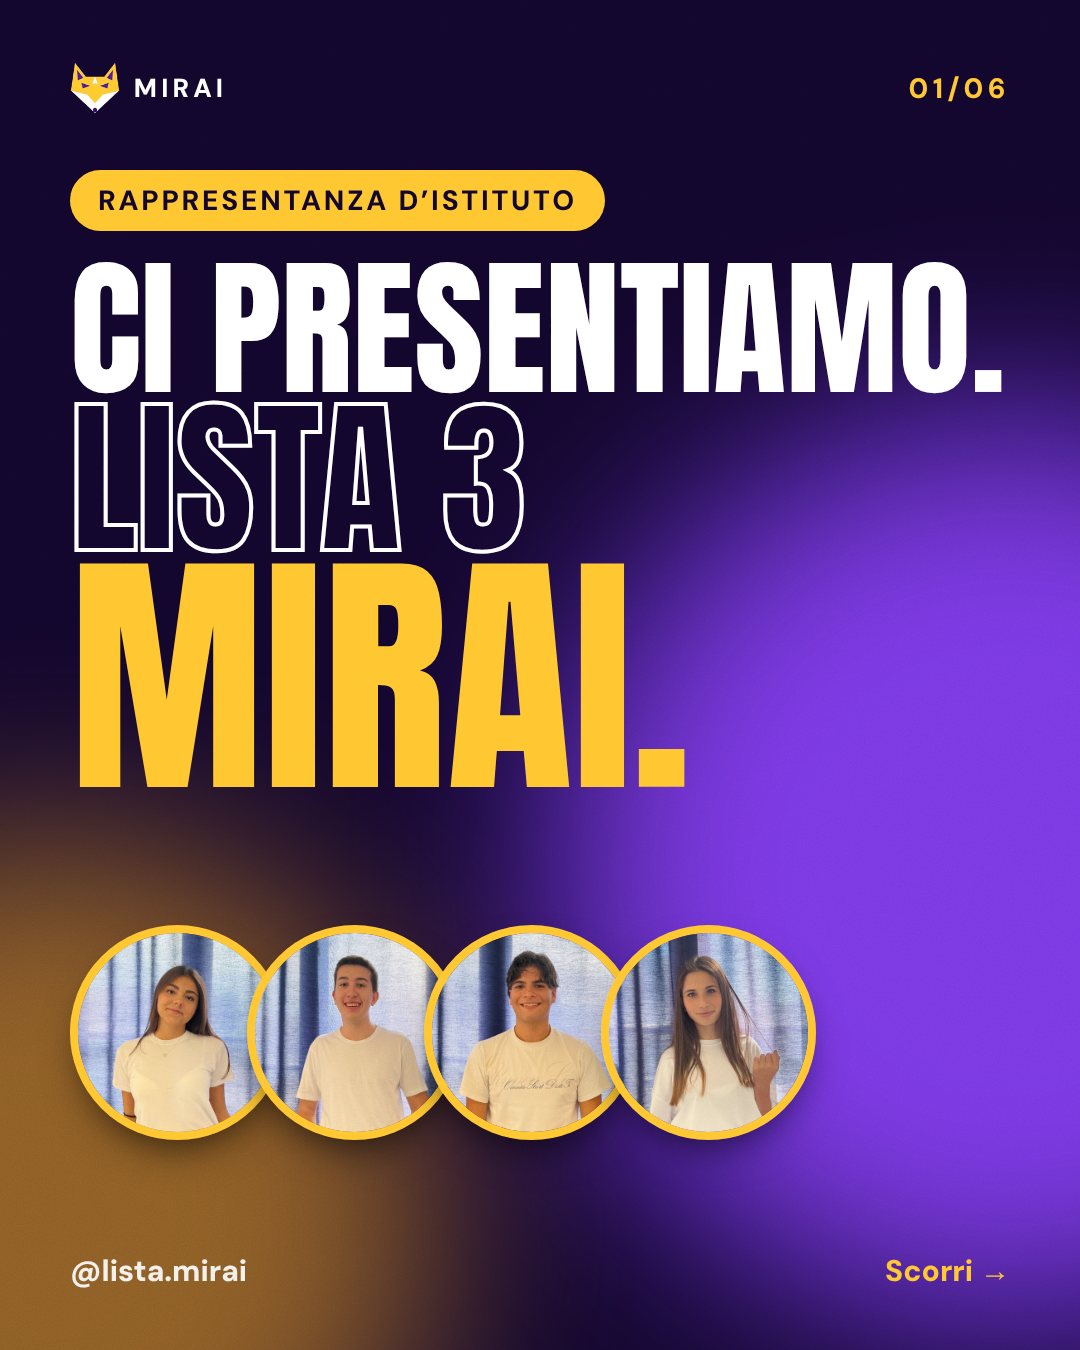
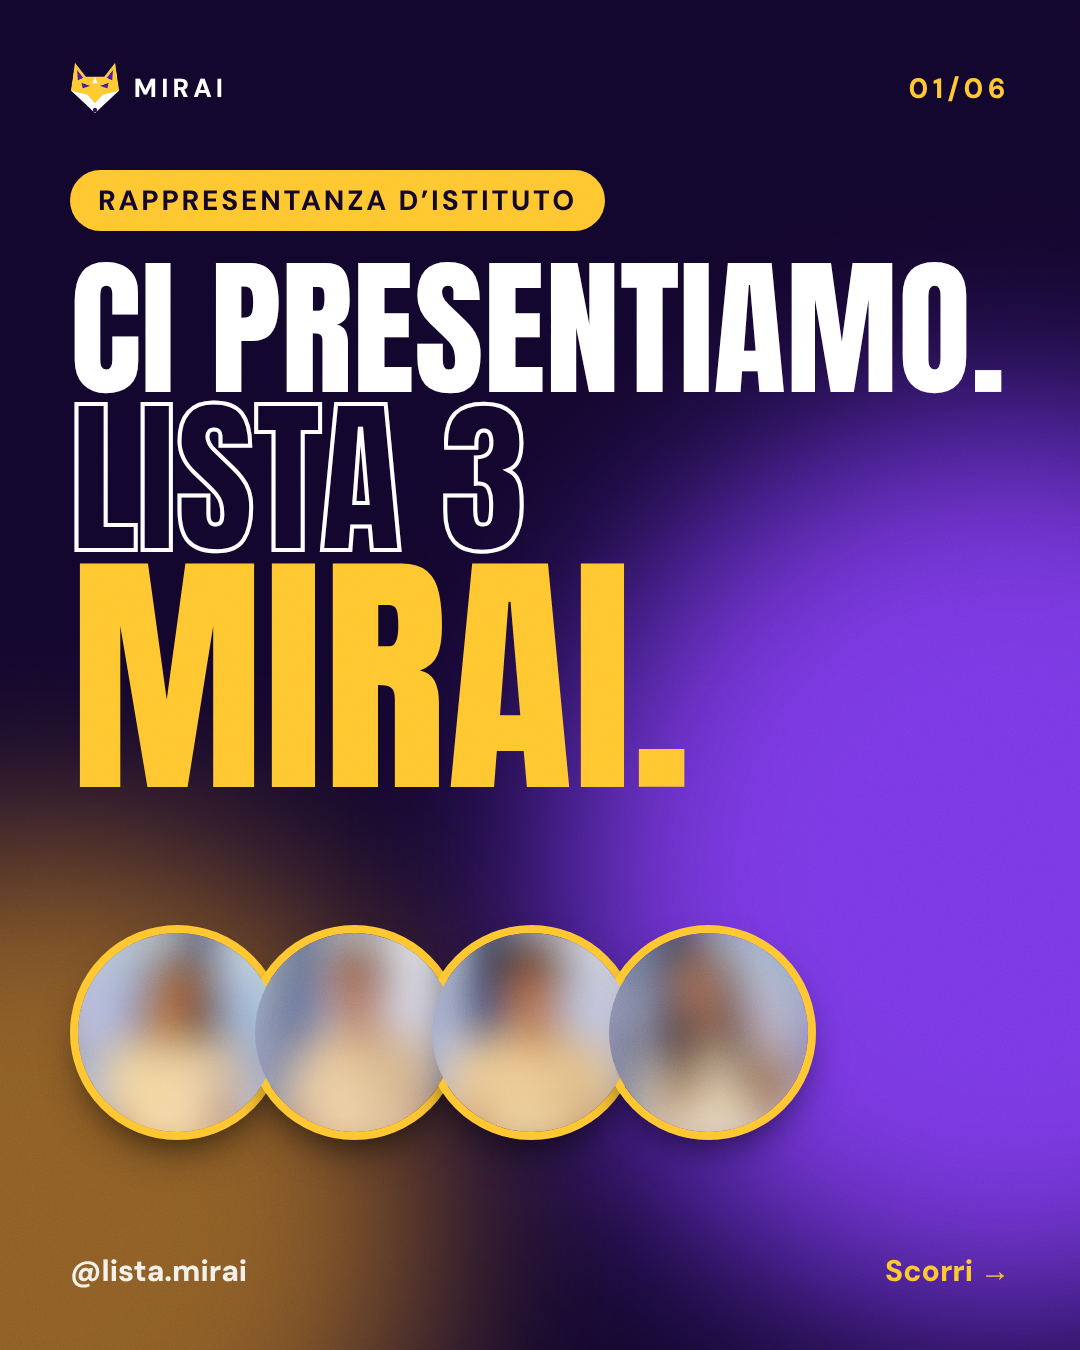
Candidati: facce sfocate nella prima slide

Changed region(s): [[0.0611, 0.6844, 0.7639, 0.84]]

diff --git a/social/campagna/campagna.html b/social/campagna/campagna.html
@@ -40,7 +40,7 @@ body{background:#000;font-family:"DM Sans",sans-serif}
 </style></head><body><section class="c p v0" id="c0"><div class="blob b1"></div><div class="blob b2"></div><div class="brand"><img src="../../assets/fox-96.png" alt="">Mirai</div><div class="n">01/06</div>
  <div style="position:absolute;left:70px;right:70px;top:170px;z-index:8"><span class="kick">Rappresentanza d’istituto</span>
   <div class="A" style="margin-top:28px"><div class="w" data-box="940" data-max="230">Ci presentiamo.</div><div class="o" data-box="940" data-max="170">Lista 3</div><div class="g" data-box="940" data-max="260">Mirai.</div></div></div>
- <div style="position:absolute;left:70px;bottom:210px;display:flex;z-index:8"><div style="width:215px;height:215px;border-radius:50%;overflow:hidden;border:8px solid var(--gold);margin-left:0px;box-shadow:0 20px 40px -14px rgba(0,0,0,.7)"><img src="img/giorgia.jpg" style="width:100%;height:100%;object-fit:cover;object-position:50% 14%"></div><div style="width:215px;height:215px;border-radius:50%;overflow:hidden;border:8px solid var(--gold);margin-left:-38px;box-shadow:0 20px 40px -14px rgba(0,0,0,.7)"><img src="img/daniele.jpg" style="width:100%;height:100%;object-fit:cover;object-position:50% 14%"></div><div style="width:215px;height:215px;border-radius:50%;overflow:hidden;border:8px solid var(--gold);margin-left:-38px;box-shadow:0 20px 40px -14px rgba(0,0,0,.7)"><img src="img/valerio.jpg" style="width:100%;height:100%;object-fit:cover;object-position:50% 14%"></div><div style="width:215px;height:215px;border-radius:50%;overflow:hidden;border:8px solid var(--gold);margin-left:-38px;box-shadow:0 20px 40px -14px rgba(0,0,0,.7)"><img src="img/annalaura.jpg" style="width:100%;height:100%;object-fit:cover;object-position:50% 14%"></div></div><div class="handle"><span>@lista.mirai</span><b>Scorri →</b></div></section>
+ <div style="position:absolute;left:70px;bottom:210px;display:flex;z-index:8"><div style="width:215px;height:215px;border-radius:50%;overflow:hidden;border:8px solid var(--gold);margin-left:0px;box-shadow:0 20px 40px -14px rgba(0,0,0,.7)"><img src="img/giorgia.jpg" style="width:100%;height:100%;object-fit:cover;object-position:50% 14%;filter:blur(16px);transform:scale(1.25)"></div><div style="width:215px;height:215px;border-radius:50%;overflow:hidden;border:8px solid var(--gold);margin-left:-38px;box-shadow:0 20px 40px -14px rgba(0,0,0,.7)"><img src="img/daniele.jpg" style="width:100%;height:100%;object-fit:cover;object-position:50% 14%;filter:blur(16px);transform:scale(1.25)"></div><div style="width:215px;height:215px;border-radius:50%;overflow:hidden;border:8px solid var(--gold);margin-left:-38px;box-shadow:0 20px 40px -14px rgba(0,0,0,.7)"><img src="img/valerio.jpg" style="width:100%;height:100%;object-fit:cover;object-position:50% 14%;filter:blur(16px);transform:scale(1.25)"></div><div style="width:215px;height:215px;border-radius:50%;overflow:hidden;border:8px solid var(--gold);margin-left:-38px;box-shadow:0 20px 40px -14px rgba(0,0,0,.7)"><img src="img/annalaura.jpg" style="width:100%;height:100%;object-fit:cover;object-position:50% 14%;filter:blur(16px);transform:scale(1.25)"></div></div><div class="handle"><span>@lista.mirai</span><b>Scorri →</b></div></section>
 <section class="c p v1" id="c1"><div class="blob b1"></div><div class="blob b2"></div><div class="ph" style="left:0;top:0;right:0;height:1350px;box-shadow:none"><img src="img/giorgia.jpg" style="object-position:50% 14%"></div>
  <div class="fade" style="height:760px"></div><div style="position:absolute;left:0;right:0;top:0;height:200px;background:linear-gradient(180deg,rgba(18,6,43,.85),rgba(18,6,43,0));z-index:5"></div><div class="brand"><img src="../../assets/fox-96.png" alt="">Mirai</div><div class="n">02/06</div>
  <div style="position:absolute;left:70px;right:70px;bottom:140px;z-index:8"><span class="chip g">Candidata · Classe 4T</span>

diff --git a/social/campagna/build.py b/social/campagna/build.py
@@ -21,7 +21,7 @@ def sec(cls,id,inner,v='v0'):
 team=[('giorgia','Giorgia','Maino','4T','giorgia_maino','Candidata'),('daniele','Daniele','Fabbri','4F','daniele.fabbri__','Candidato'),('valerio','Valerio','Sessa','3E','___valerio_00_','Candidato'),('annalaura','Annalaura','Giongo','2T','annalauragiongo_','Candidata')]
 H=''
 # ---------- CANDIDATI (post) ----------
-faces=''.join(f'<div style="width:215px;height:215px;border-radius:50%;overflow:hidden;border:8px solid var(--gold);margin-left:{0 if i==0 else -38}px;box-shadow:0 20px 40px -14px rgba(0,0,0,.7)"><img src="img/{t[0]}.jpg" style="width:100%;height:100%;object-fit:cover;object-position:50% 14%"></div>' for i,t in enumerate(team))
+faces=''.join(f'<div style="width:215px;height:215px;border-radius:50%;overflow:hidden;border:8px solid var(--gold);margin-left:{0 if i==0 else -38}px;box-shadow:0 20px 40px -14px rgba(0,0,0,.7)"><img src="img/{t[0]}.jpg" style="width:100%;height:100%;object-fit:cover;object-position:50% 14%;filter:blur(16px);transform:scale(1.25)"></div>' for i,t in enumerate(team))
 H+=sec('p','c0',BR+f'''<div class="n">01/06</div>
  <div style="position:absolute;left:70px;right:70px;top:170px;z-index:8"><span class="kick">Rappresentanza d’istituto</span>
   <div class="A" style="margin-top:28px"><div class="w" data-box="940" data-max="230">Ci presentiamo.</div><div class="o" data-box="940" data-max="170">Lista 3</div><div class="g" data-box="940" data-max="260">Mirai.</div></div></div>
